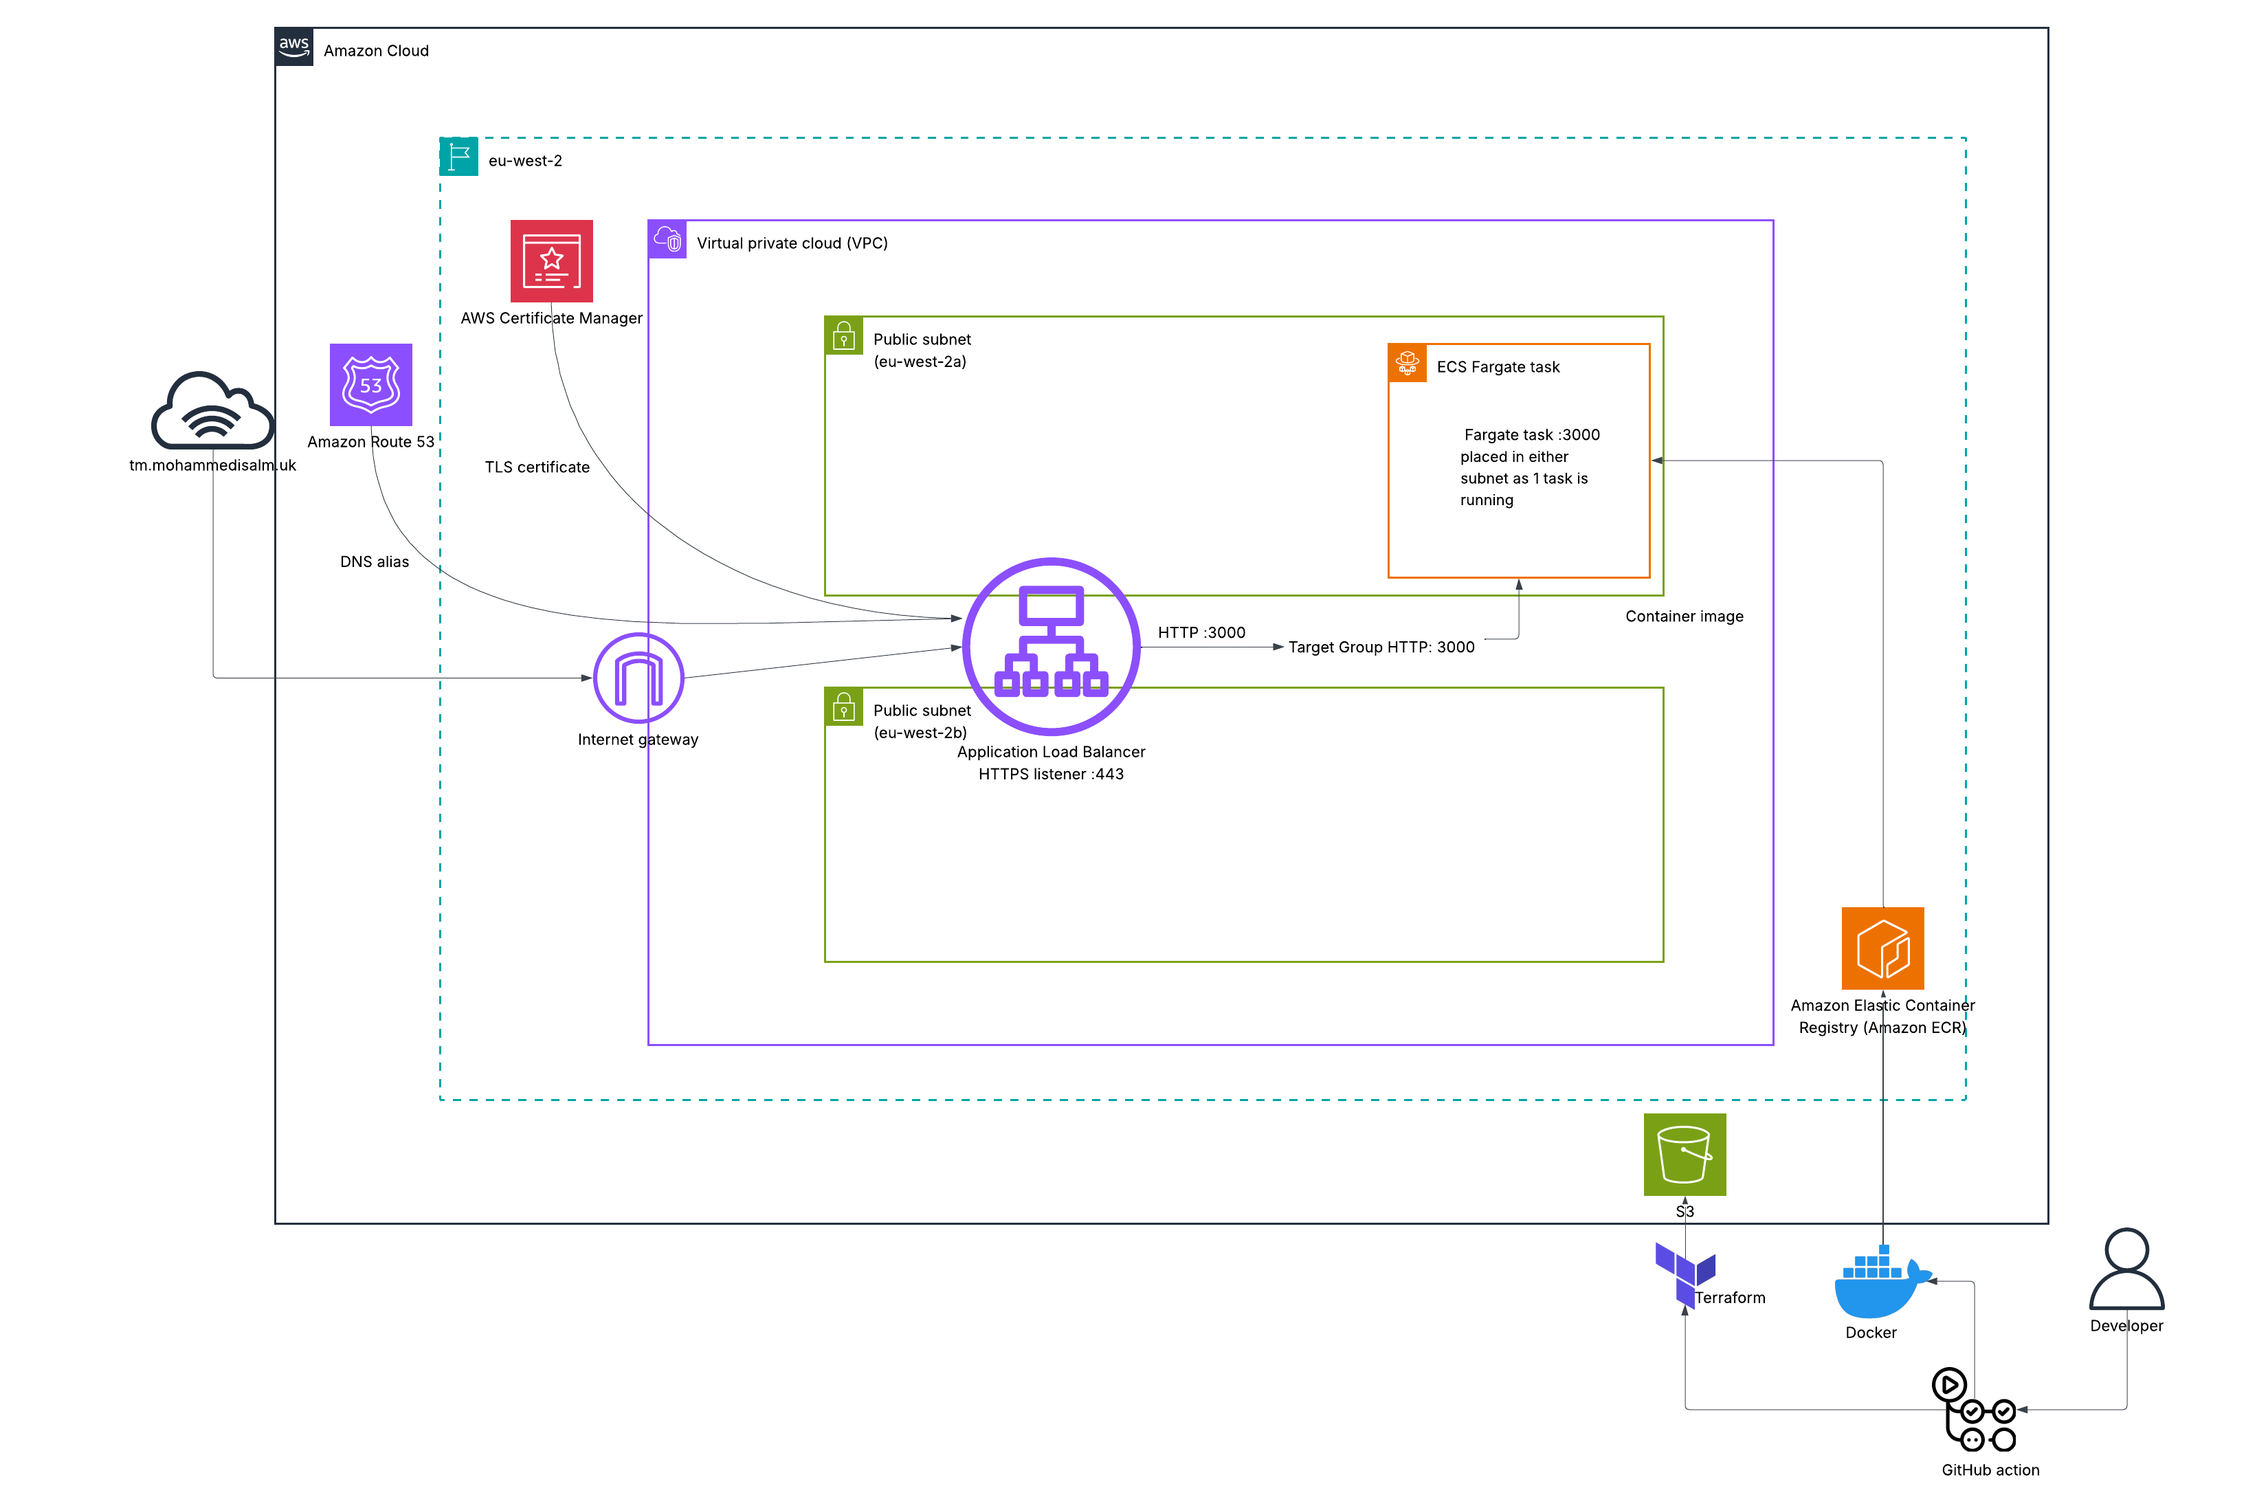
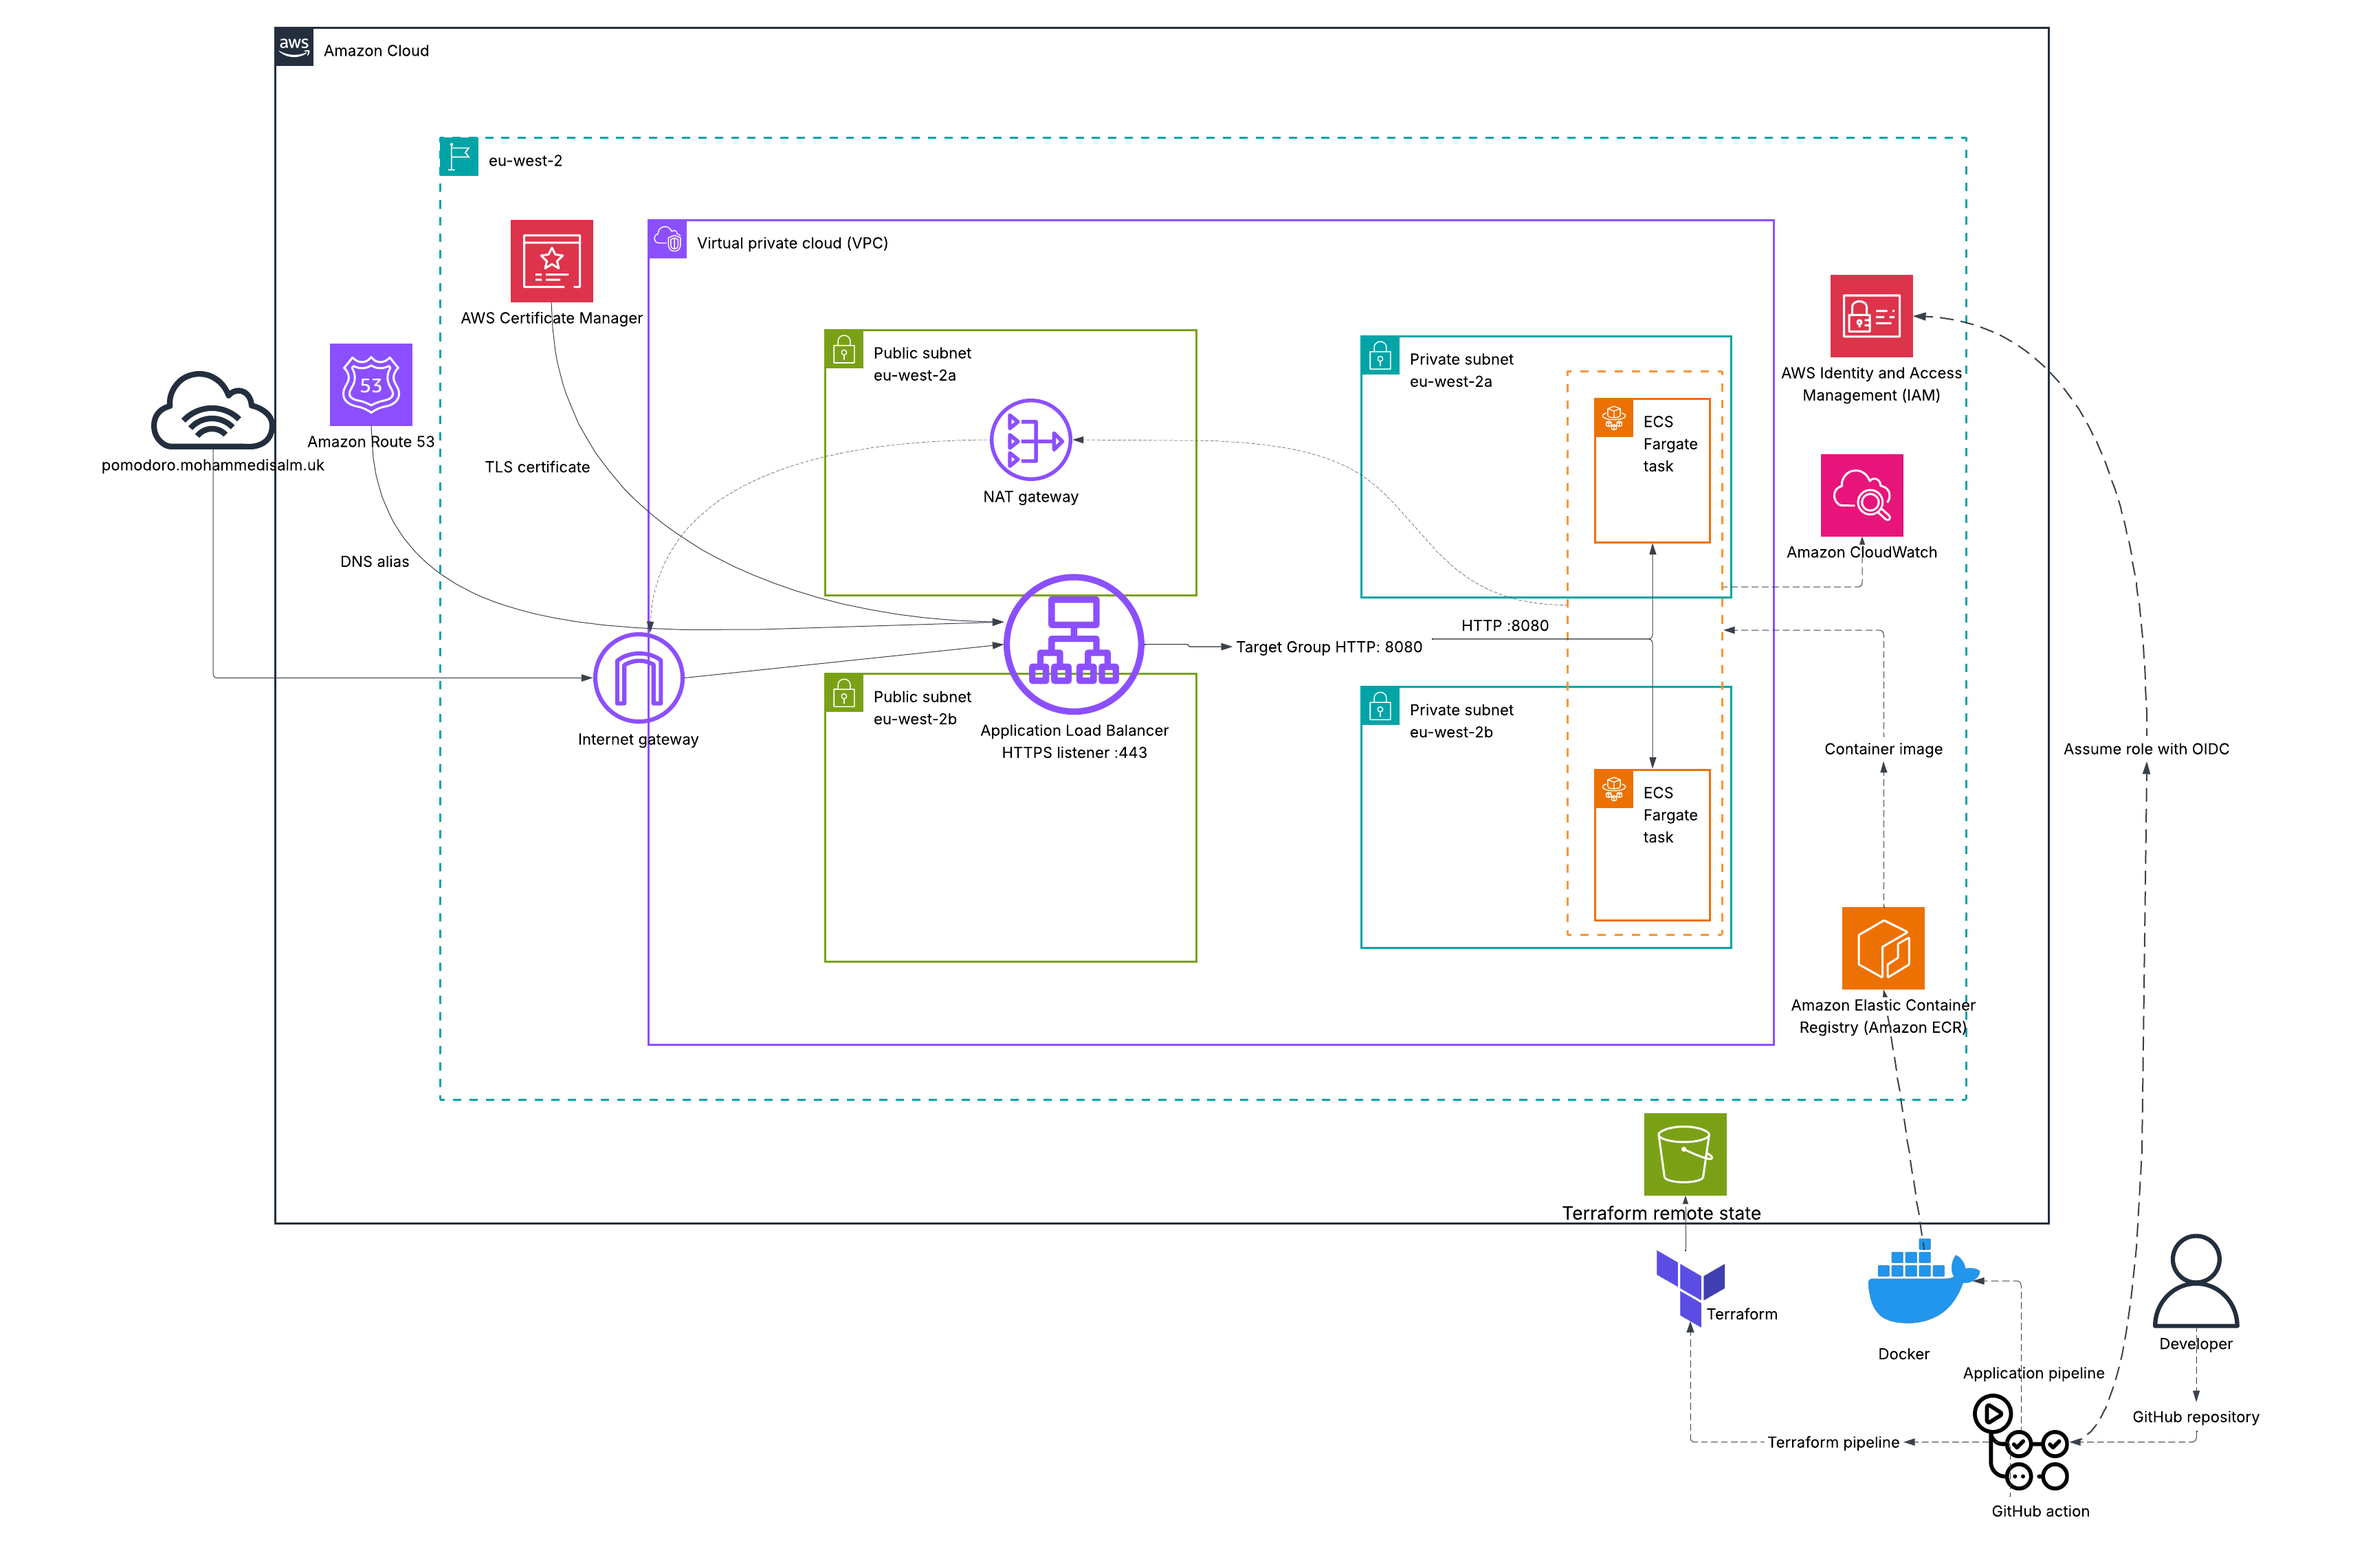
update architecure diagram

diff --git a/README.md b/README.md
@@ -2,7 +2,7 @@
 
 This project deploys a Pomodoro timer app to AWS using ECS Fargate.
 
-The infrastructure is provisioned with Terraform and includes a custom VPC, 2 public subnets, an Application Load Balancer, HTTPS using ACM, Route 53 DNS, ECR to store Docker images, and ECS Fargate for running the app.
+The infrastructure is provisioned with Terraform and includes a custom VPC, 2 public subnets, 2 private subnets, NAT gateway, internet gateway, an application load balancer, HTTPS using ACM, Route 53 DNS, ECR to store Docker images, and ECS Fargate for running the app.
 
 CI/CD is implemented using GitHub Actions with OIDC authentication to AWS. 
 
@@ -77,12 +77,13 @@ terraform apply -target=module.ecr
 ## Project Structure
 
 ```
-ecs-project
-├── app/
+terraform-ecs-pomodoro
+├── app/...
+│   ├── css/
+│   ├── js/
 │   ├── Dockerfile
-│   ├── server.js
-│   ├── package.json
-│   └── src/
+│   ├── index.html
+│   └── nginx.conf
 ├── infra/
 │   ├── backend.tf
 │   ├── main.tf
